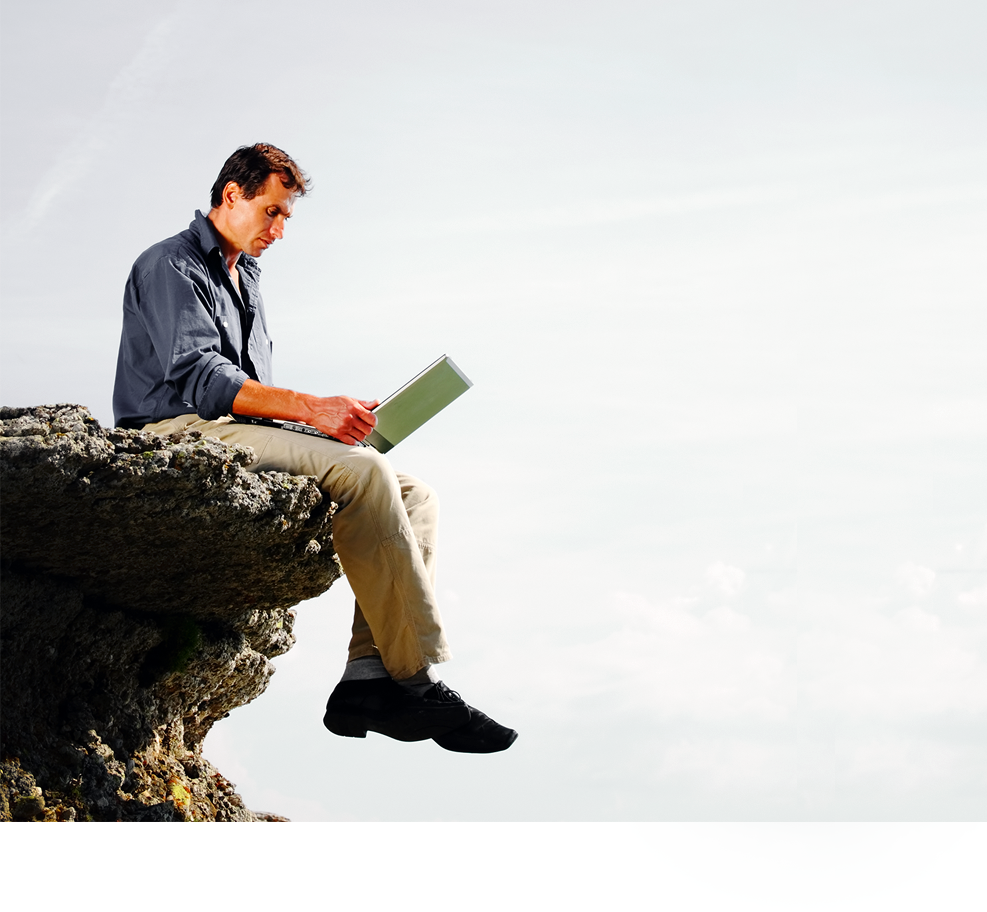
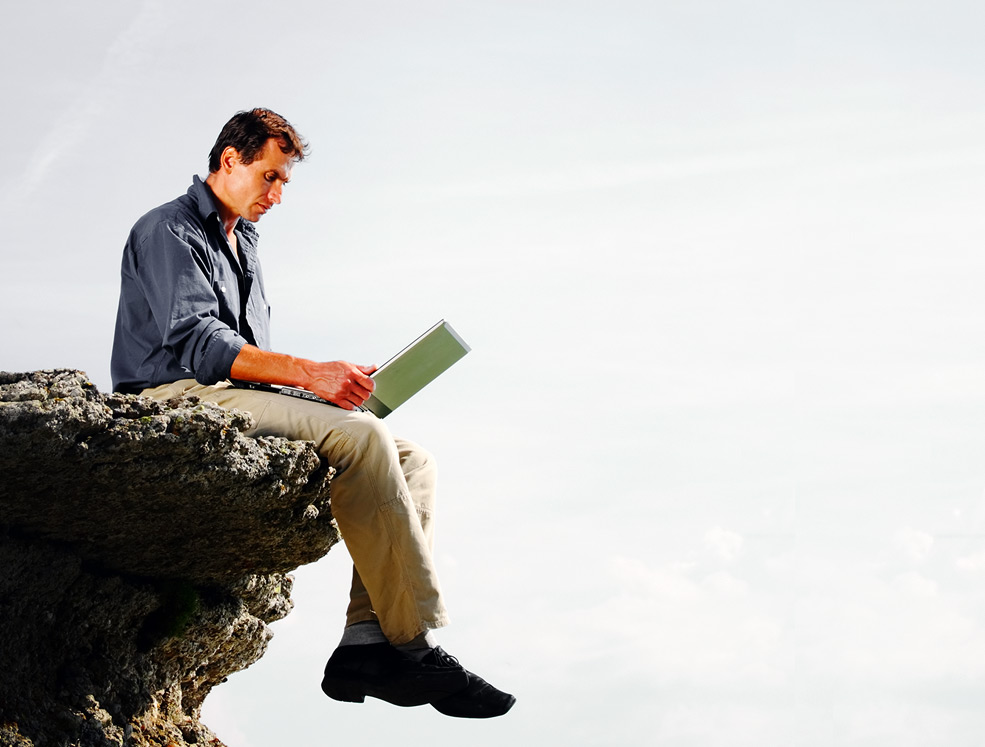
fixed man on mountain, add conditional opacity to header background

Changed region(s): [[0.0, 0.1232, 0.5482, 1.0], [0.5787, 0.9853, 0.6091, 1.0]]

diff --git a/style.css b/style.css
@@ -34,14 +34,33 @@ a.header__url:hover {
 }
 
 .header__block {
-  background-image: url("img/girl_with_laptop.png");
   width: 100%;
   height: 700px;
+  position: relative;
+}
+
+.header__block:after {
+  position: absolute;
+  top: 0;
+  width: 100%;
+  left: 0;
+  height: 100%;
+  content: '';
+  background-image: url("img/girl_with_laptop.png");
   background-repeat: no-repeat;
   background-position: 0 15%;
   background-size: cover;
+  opacity: 1;
+  z-index: -1;
+}
+
+@media (max-width: 992px) {
+  .header__block:after{
+    opacity: 0.5 
+  }
 }
 .header-box {
+  opacity: none;
   position: absolute;
   bottom: 0;
   width: 500px;
@@ -249,10 +268,26 @@ a.posts_button:hover {
 }
 
 .blog {
+  position: relative;
+}
+
+.blog:before {
+  content: '';
+  position: absolute;
+  top: 0;
+  right: 0;
+  height: 100%;
+  bottom: 0;
+  width: 50%;
   background-image: url("img/man_on_mountain.jpg");
-  background-repeat: no-repeat;
-  background-position: right;
-  background-size: 50% auto;
+  background-size: cover;
+  background-position: center center;
+}
+
+@media (max-width: 992px) {
+  .blog:before {
+    display: none;
+  }
 }
 
 .post {

diff --git a/index.html b/index.html
@@ -293,10 +293,9 @@
         </div>
     </section>
     <section class='blog section bg-grey'>
-        <!-- TODO add photo of dude in better way and make section responsive-->
         <div class="container">
             <div class="row">
-                <div class="col-6">
+                <div class="col-lg-6 col-md-6">
                     <div class="row d-flex">
                         <div>
                             <div class="section-description">News</div>
